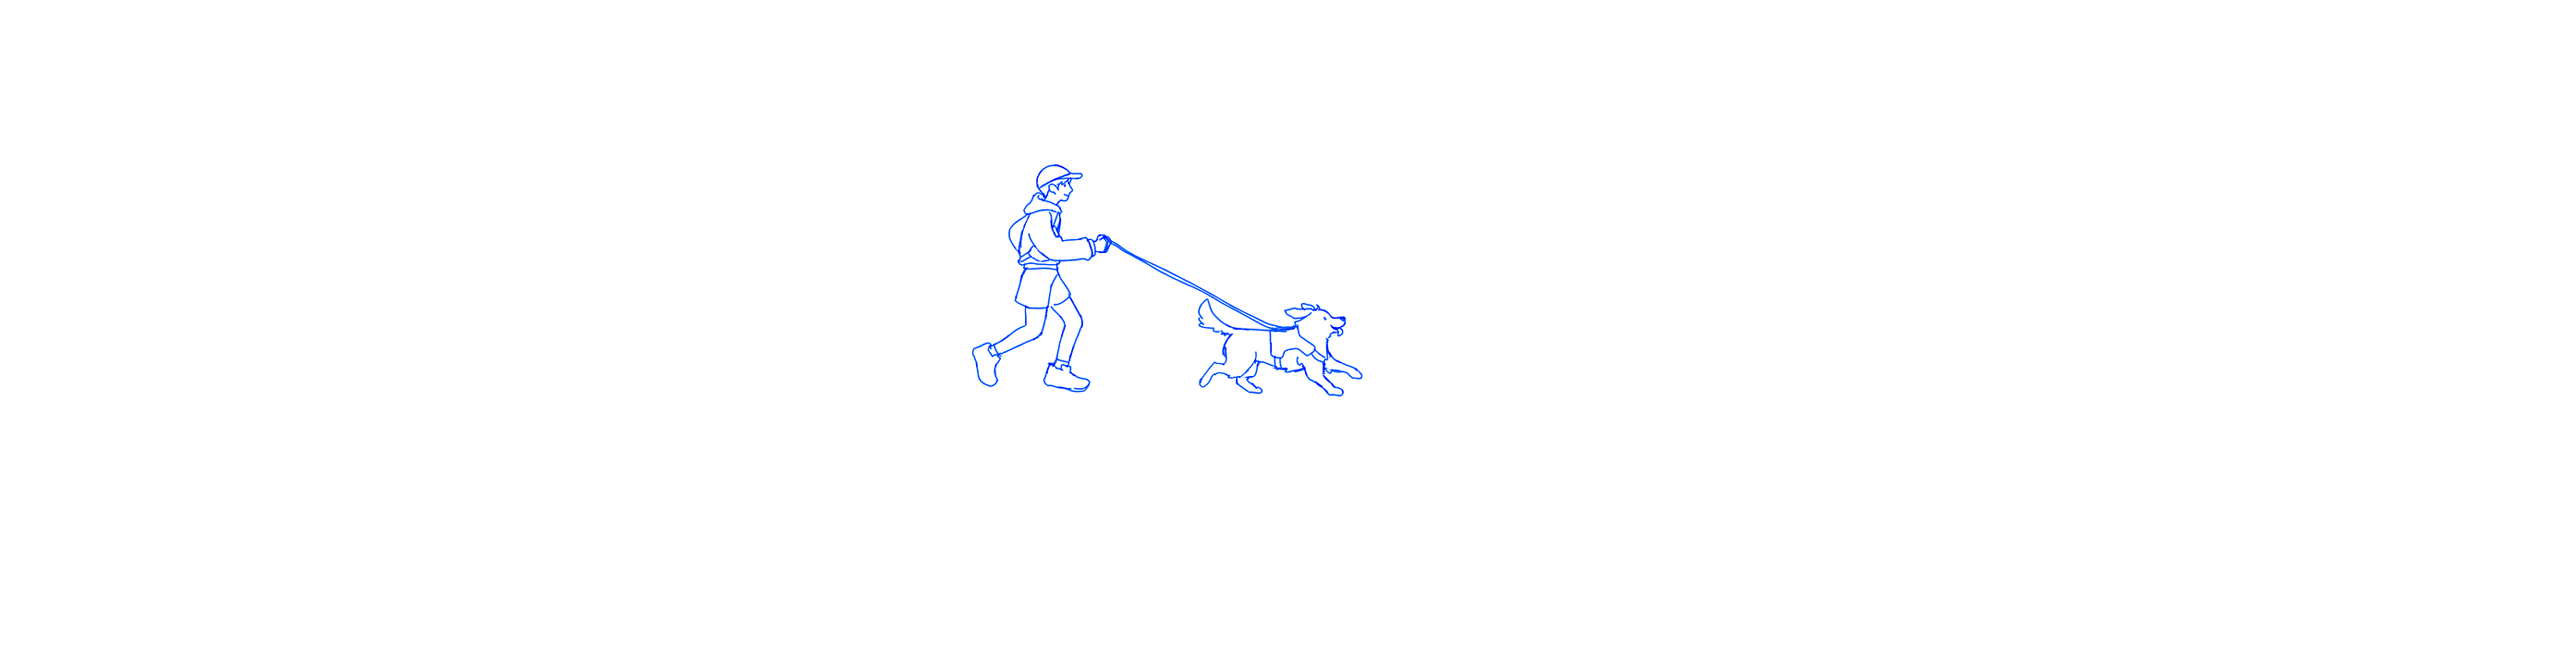
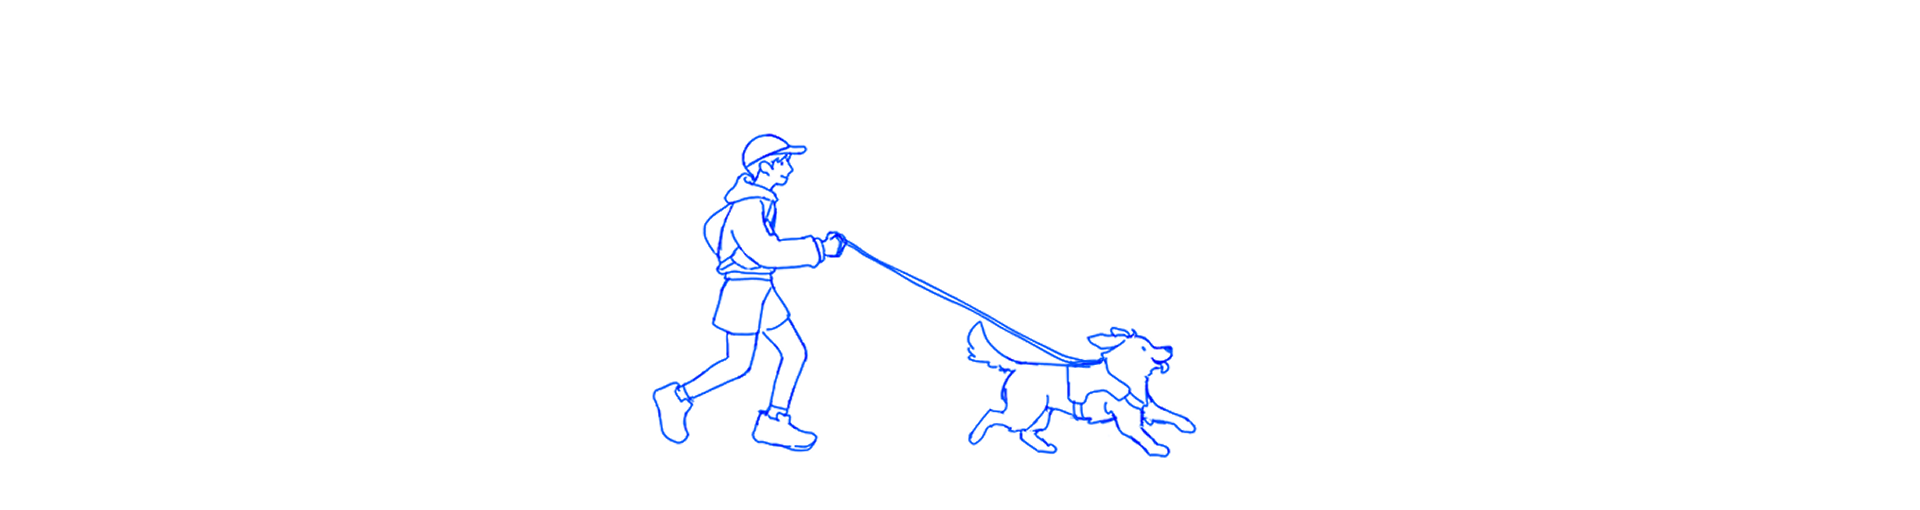
WIP: 중간저장

Changed region(s): [[0.3438, 0.2647, 0.625, 0.9118], [0.3438, 0.7941, 0.4375, 0.8824]]

diff --git a/frontend/src/pages/Home.jsx b/frontend/src/pages/Home.jsx
@@ -41,9 +41,9 @@ function Home() {
     <div className='relative animate-fadeIn'>
       {/* 상단 배경(산책지수 배경) */}
       <div className="absolute -mt-6 top-0 left-1/2 -translate-x-1/2 w-screen h-[510px] bg-txtcolor-100/55 z-6">
-        <div className='bg-brand-100 w-full h-full object-cover'/>
-        {/* <img src='/testimg.png' alt='테스트이미지' className='w-full h-full object-cover'/> */}
-        {/* <img src='/testimg2.png' alt='테스트이미지' className='w-full h-full object-cover'/> */}
+        {/* <div className='bg-brand-100 mx-auto w-[1920px] h-full object-cover'/> */}
+        <img src='/testimg.png' alt='테스트이미지' className='mx-auto w-[1920px] h-full object-cover'/>
+        {/* <img src='/testimg2.png' alt='테스트이미지' className='mx-auto w-[1920px] h-full object-cover'/> */}
       </div>
 
       <div className="relative z-5 flex flex-col gap-6 overflow-x-hidden">
@@ -197,31 +197,32 @@ function Home() {
           </p>
         </section> */}
 
-        <div className='px-4'>
-          <button
-            onClick={() => navigate(`/community`)}
-            className="group flex items-center gap-2 mb-3 text-[30px] text-txtcolor-700 font-extrabold"
-          >
-            커뮤니티
-            <span className="text-[20px] font-medium transition-transform duration-200 group-hover:translate-x-1">
-              ›
+        <div className='px-4 grid grid-cols-[1fr_2fr]'>
+          <div className='flex flex-col'>
+            <p className="gap-2 mb-3 text-[30px] text-txtcolor-700 font-extrabold">
+              반려견과의<br/>슬기로운 산책 라이프
+            </p>
+            <span className="text-[16px] text-txtcolor-500">
+              산책 기록부터 통계 분석까지,<br/>산책 활동을 쉽고 편하게 체계적으로 관리해보세요.
             </span>
-          </button>
-          <section className="grid grid-cols-[1fr_3fr] gap-4">
-            <div className='flex flex-col gap-4'>
-              <div onClick={() => navigate(`/walk`)}
-                   className="bg-white rounded-xl p-4 shadow-sm cursor-pointer">
-                <p className="text-[18px] text-txtcolor-700 font-extrabold">산책 기록</p>
-                <p className="text-[13px] text-txtcolor-500 mt-1">반려견과 함께 <br/>오늘의 산책을 시작해볼까요?</p>
-                <img src="/walkicon.png" alt="산책" className="w-[90px] h-[90px] relative z-10"/>
-              </div>
-
-              <div className="bg-white rounded-xl p-4 shadow-sm">
-                <p className="text-[18px] text-txtcolor-700 font-extrabold">산책 캘린더</p>
-                <p className="text-[13px] text-txtcolor-500 mt-1">반려견과 산책한 날들을 돌아볼 수 있어요!</p>
-              </div>
+          </div>
+          
+          <section className="flex justify-end gap-4">
+            <div onClick={() => navigate(`/walk`)}
+                 className="w-[200px] bg-white rounded-xl p-4 shadow-sm cursor-pointer">
+              <p className="text-[18px] text-txtcolor-700 font-extrabold">산책 기록</p>
+              <p className="text-[13px] text-txtcolor-500 mt-1">반려견과 함께 <br/>오늘의 산책을 시작해볼까요?</p>
+              <img src="/walkicon.png" alt="산책" className="w-[90px] h-[90px] relative z-10"/>
             </div>
-            <div className="bg-white rounded-xl p-4 shadow-sm">
+
+            <div onClick={() => navigate(`/walk/calendar`)}
+                 className="w-[200px] bg-white rounded-xl p-4 shadow-sm cursor-pointer">
+              <p className="text-[18px] text-txtcolor-700 font-extrabold">산책 캘린더</p>
+              <p className="text-[13px] text-txtcolor-500 mt-1">반려견과 산책한 날들을 돌아볼 수 있어요!</p>
+            </div>
+
+            <div onClick={() => navigate(`/walk/report`)}
+                 className="w-[200px] bg-white rounded-xl p-4 shadow-sm cursor-pointer">
               <p className="text-xs text-gray-500">주간/월간 리포트</p>
               <p className="text-lg font-semibold mt-1">3회 · 2시간</p>
             </div>

diff --git a/frontend/src/components/Layout.jsx b/frontend/src/components/Layout.jsx
@@ -12,8 +12,8 @@ const navItems = [
     label: '산책 기록',
     to: '/walk',
     children: [
-      { label: '주간/월간 리포트', to: '/walk/report' },
       { label: '산책 캘린더', to: '/walk/calendar' },
+      { label: '주간/월간 리포트', to: '/walk/report' },
     ],
   },
   {
